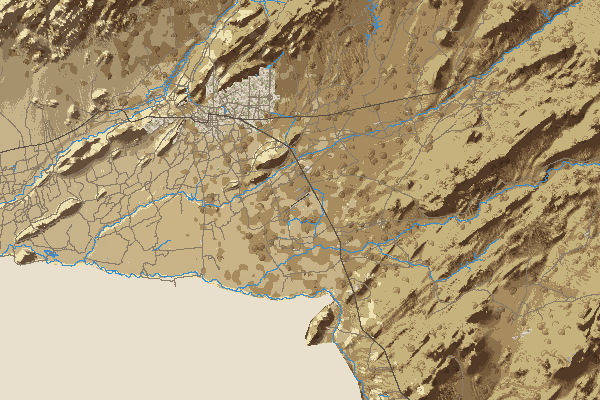
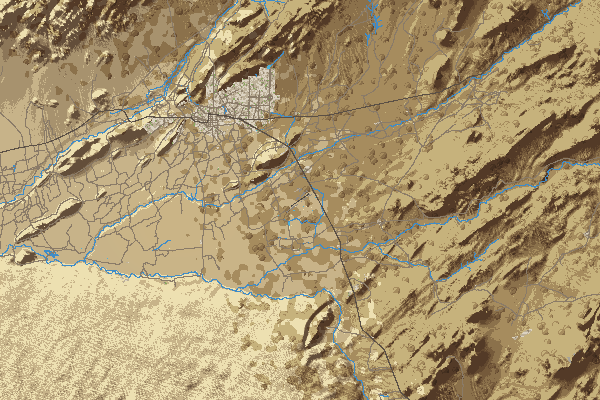
Kandahar Airfield: generar-base.py y mapa al día

Changed region(s): [[0.0, 0.63, 0.6, 1.0]]

diff --git a/arte/generar-base.py b/arte/generar-base.py
@@ -53,7 +53,7 @@ def _arg(nombre, defecto):
 
 
 if len(sys.argv) < 2 or sys.argv[1] not in {b["slug"] for b in BASES.values()}:
-    sys.exit("uso: generar-base.py <slug> [--sin-ne] [--seco] [--km 10|18|40|90 | --elegir <km>]")
+    sys.exit("uso: generar-base.py <slug> [--sin-ne] [--seco] [--sin-arena] [--km 10|18|40|90 | --elegir <km>]")
 SLUG = sys.argv[1]
 NOMBRE, BASE = next((k, b) for k, b in BASES.items() if b["slug"] == SLUG)
 FUENTES_DIR = os.path.join(AQUI, "bases-fuentes", SLUG)
@@ -84,7 +84,7 @@ if "--elegir" in sys.argv:
 
 if "--km" not in sys.argv:
     # Las cuatro vistas, cada una en su proceso (a la vez).
-    extra = [a for a in sys.argv[2:] if a in ("--sin-ne", "--seco")]
+    extra = [a for a in sys.argv[2:] if a in ("--sin-ne", "--seco", "--sin-arena")]
     procs = [subprocess.Popen([sys.executable, os.path.abspath(__file__), SLUG, "--km", str(k)] + extra) for k in KMS]
     sys.exit(max(p.wait() for p in procs))
 
@@ -747,6 +747,8 @@ for e in _osm("agua"):
         rasterizar(_poligonos(e), LAGO, 1)
     elif t.get("waterway"):
         trazar(_geom(e), RIO, 1)
+    elif t.get("natural") == "sand" and "--sin-arena" in sys.argv:
+        continue  # el desierto de arena de OSM (Registán) no es un lago seco: se queda el terreno
     else:
         rasterizar(_poligonos(e), PLAYA, 1)
 MINA = rejilla()
